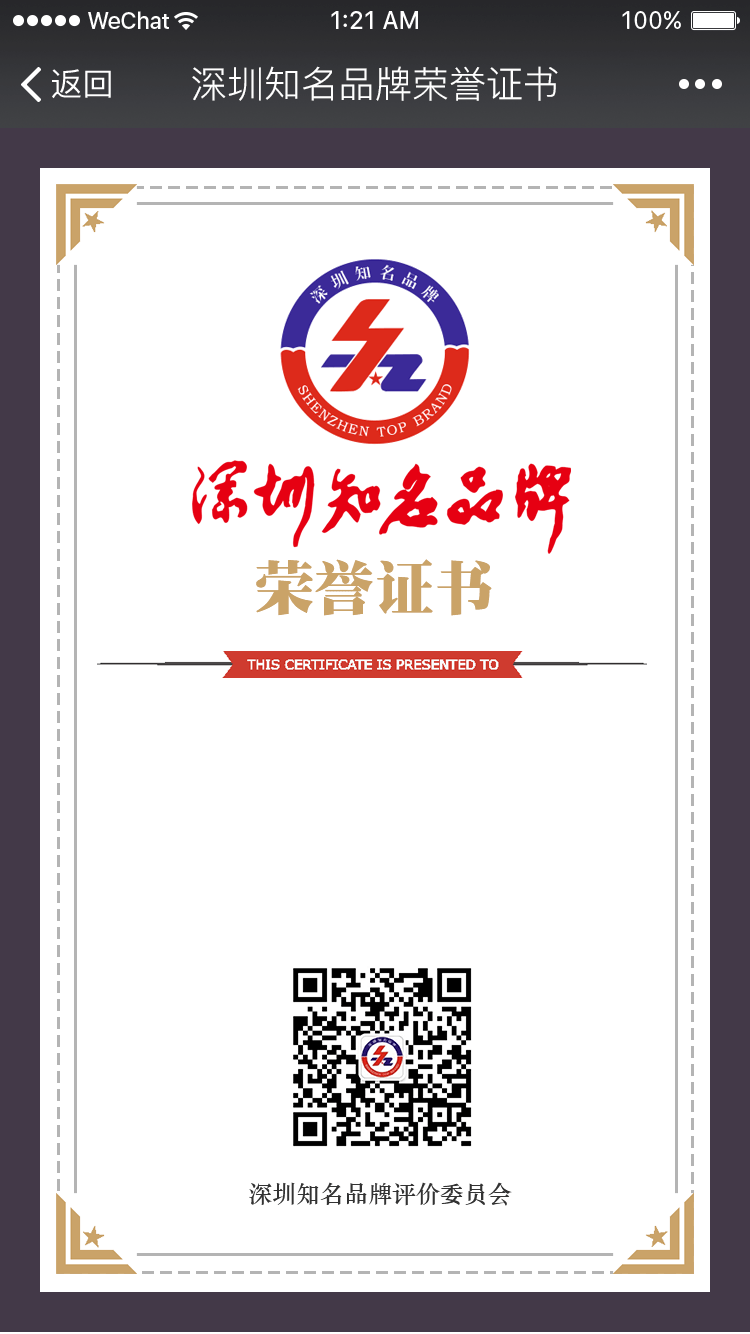
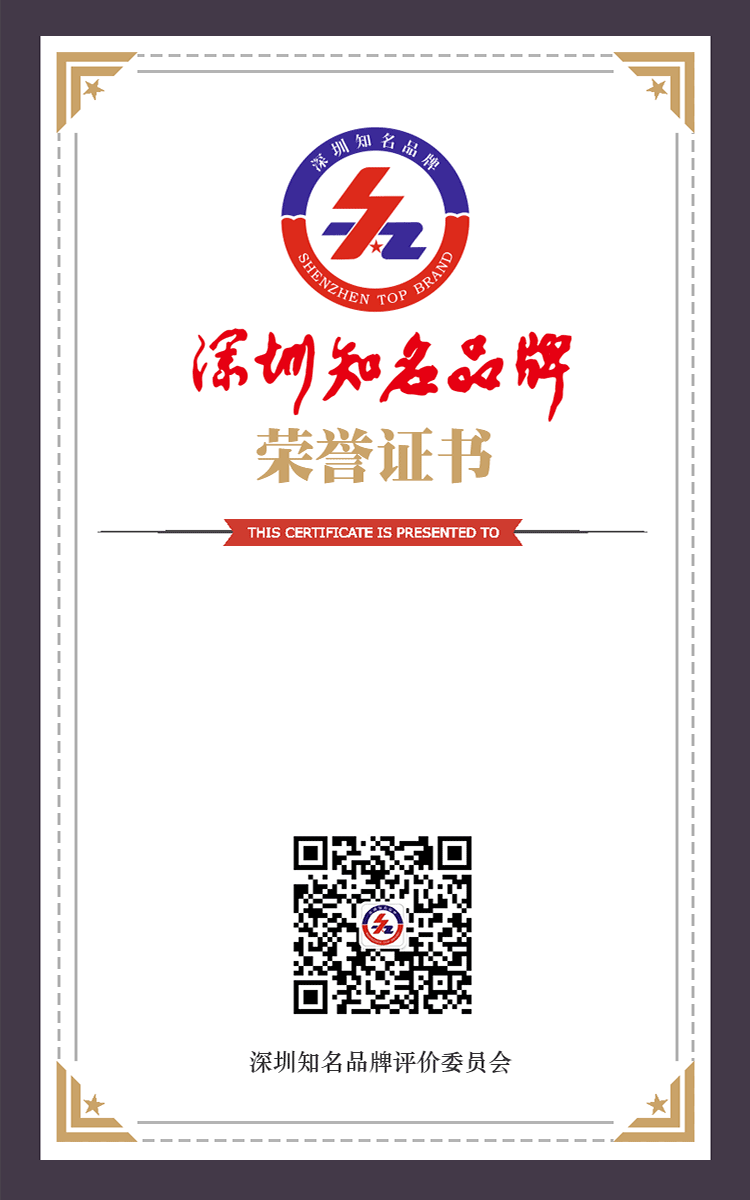
证书html
字体引用在线字体库

diff --git a/src/style.css b/src/style.css
@@ -173,3 +173,75 @@ footer{
 .icon_green{
 	color: #09bb07;
 }
+
+/* templet1 */
+
+.reward1-bg{
+	width: 750px;
+	height: 1200px;
+	overflow: hidden;
+	margin:0 auto;
+	background: url(../img/templet/1.png);
+	text-align: center;
+	font-size: 24px;
+	line-height: 1.5em;
+	color: #000;
+}
+
+.reward-mes1{
+	position: relative;
+	top:570px;
+	padding: 0 3em;
+}
+
+.reward-mes1 li{
+	margin-bottom: 0.5em;
+}
+
+.reward-mes2{
+	position: relative;
+	top:630px;
+}
+
+/* templet2 */
+.reward2-bg{
+	width: 750px;
+	height: 1200px;
+	overflow: hidden;
+	margin:0 auto;
+	background: url(../img/templet/2.png);
+	text-align: center;
+	font-size: 24px;
+	line-height: 1.5em;
+	color: #000;
+}
+
+.reward-mes3{
+	position: relative;
+	top:600px;
+	padding: 0 3em;
+	font-size: 36px
+}
+
+.reward-mes3 li{
+	margin-bottom: 0.5em;
+}
+
+.reward-mes4 {
+	position: relative;
+	top:680px;
+}
+
+
+/* templet3 */
+.reward3-bg{
+	width: 750px;
+	height: 1200px;
+	overflow: hidden;
+	margin:0 auto;
+	background: url(../img/templet/3.png);
+	text-align: center;
+	font-size: 24px;
+	line-height: 1.5em;
+	color: #000;
+}

diff --git a/templet3.html b/templet3.html
@@ -3,21 +3,21 @@
 <head>
     <meta charset="UTF-8">
     <meta name="viewport" content="width=device-width,initial-scale=1,user-scalable=0">
-    <title>深圳知名品牌证书</title>
+    <title>深圳知名品牌（欧洲原产）证书</title>
     <link rel="stylesheet" href="src/style.css"/>
     <!-- 有字体-->    
     <script type="text/javascript" src="http://cdn.webfont.youziku.com/wwwroot/js/wf/youziku.api.min.js"></script>
 </head>
 
 <body>
-<div class="reward1-bg">
+<div class="reward3-bg">
     <ul class="reward-mes1">
-        <li>品牌名称：百果园</li>
-        <li>持有单位：深圳百果园实业发展有限公司</li>
+        <li>品牌名称：ZARA</li>
+        <li>持有单位：INdustrias de DIseño TEXtil, S.A.</li>
         <li>有效期：2017-2019</li>
     </ul>
     <div class="reward-mes2">
-        <p>深名评证字[2017]/P001号</p>
+        <p>Certificate:[2015]/No.E001</p>
     </div>
 </div>
 

diff --git a/templet2.html b/templet2.html
@@ -3,21 +3,19 @@
 <head>
     <meta charset="UTF-8">
     <meta name="viewport" content="width=device-width,initial-scale=1,user-scalable=0">
-    <title>深圳知名品牌证书</title>
+    <title>国际信誉品牌证书</title>
     <link rel="stylesheet" href="src/style.css"/>
     <!-- 有字体-->    
     <script type="text/javascript" src="http://cdn.webfont.youziku.com/wwwroot/js/wf/youziku.api.min.js"></script>
 </head>
 
 <body>
-<div class="reward1-bg">
-    <ul class="reward-mes1">
-        <li>品牌名称：百果园</li>
-        <li>持有单位：深圳百果园实业发展有限公司</li>
-        <li>有效期：2017-2019</li>
+<div class="reward2-bg">
+    <ul class="reward-mes3">
+        <li>Brand：<b>BYD</b></li>
     </ul>
-    <div class="reward-mes2">
-        <p>深名评证字[2017]/P001号</p>
+    <div class="reward-mes4">
+        <p>深名评证字 [2016]/G002号</p>
     </div>
 </div>
 
